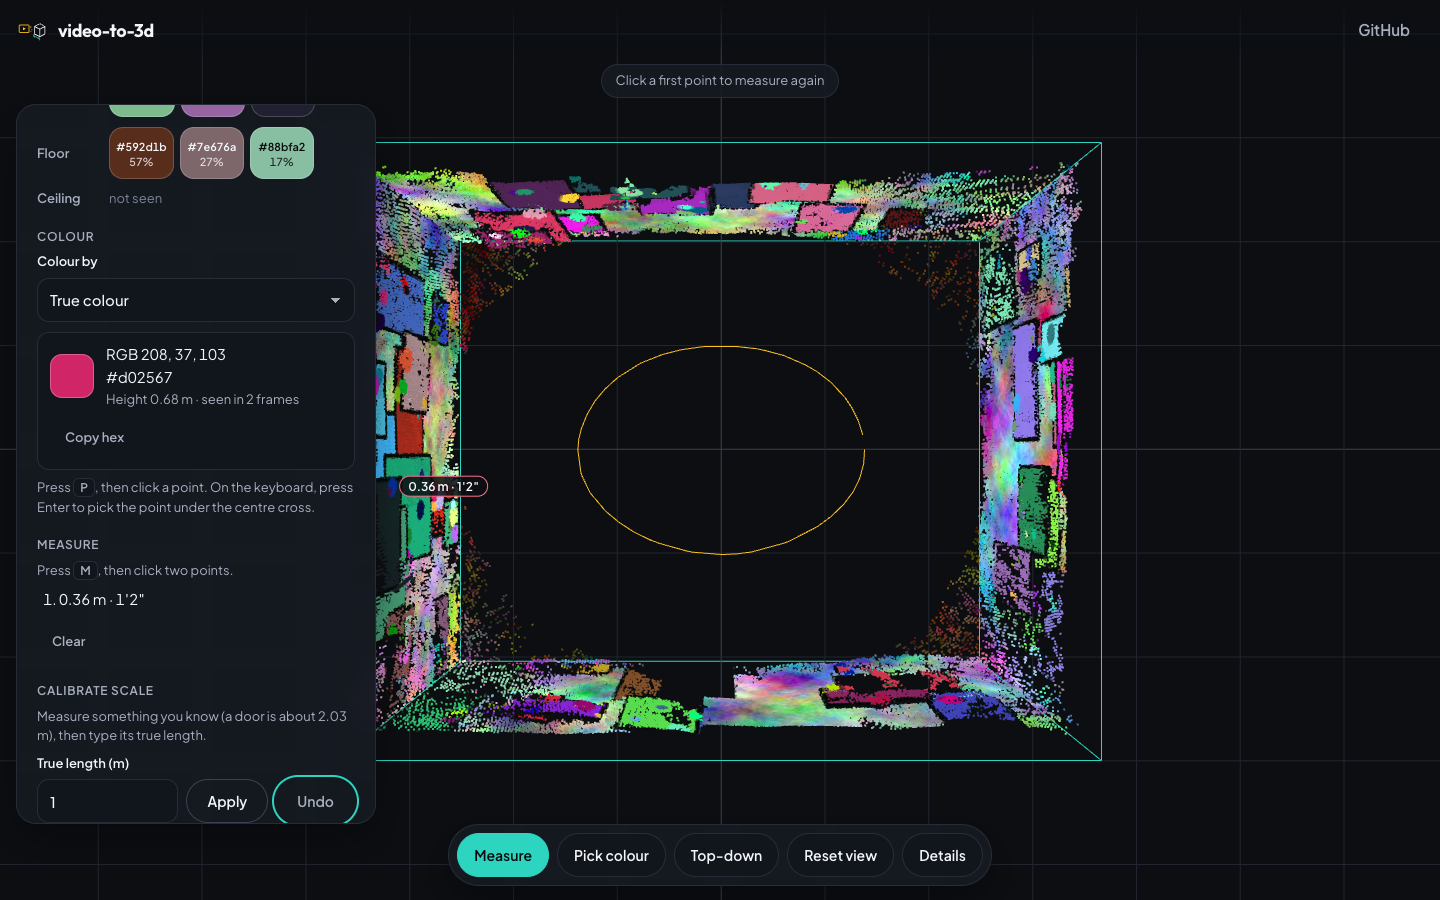
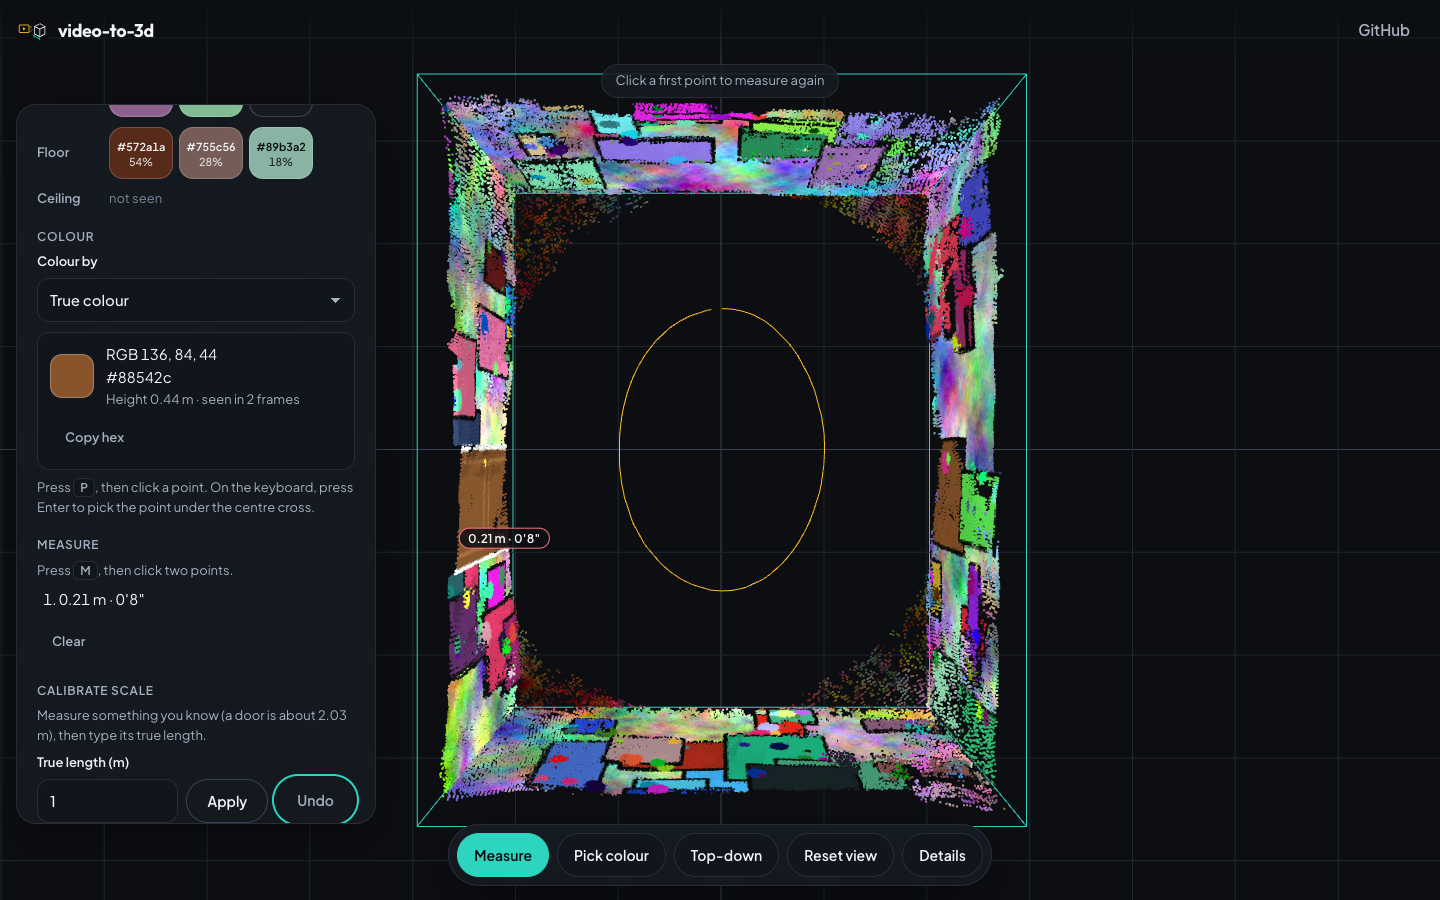
Viewer: ranges, confidence badge, guided demo with a bad-capture scan, calibration before/after readout

diff --git a/viewer/js/app.js b/viewer/js/app.js
@@ -4,7 +4,8 @@ import { SceneView } from "./scene.js";
 import { parsePly } from "./ply.js";
 import { RAMP, availableModes } from "./colors.js";
 import { detectMode, uploadVideo, getJob, cancelJob } from "./jobs.js";
-import { esc, fmtLen, mmss, textOn } from "./format.js";
+import { demoSteps, markDone } from "./demo.js";
+import { confidenceView, esc, fmtLen, fmtRange, mmss, textOn } from "./format.js";
 
 const $ = (id) => document.getElementById(id);
 const VIDEO = /\.(mp4|mov|m4v|webm|avi|mkv)$/i;
@@ -218,14 +219,26 @@ function openScene(data, m, plan) {
 
 function renderPanel() {
   const r = meta.room || {}, cal = view.cal;
-  $("dims").textContent = r.length_m ? `${(r.length_m * cal).toFixed(2)} × ${(r.width_m * cal).toFixed(2)} m` : "Room not fully captured";
+  renderConfidence();
+  renderDemo();
+  const ro = $("cal-readout");
+  ro.hidden = cal === 1 || !r.length_m;
+  if (!ro.hidden) ro.textContent = `Before: ${r.length_m.toFixed(2)} × ${r.width_m.toFixed(2)} m. After your calibration (×${cal.toFixed(3)}): ${(r.length_m * cal).toFixed(2)} × ${(r.width_m * cal).toFixed(2)} m.`;
+  const atLeast = r.missing_wall ? "at least " : "";
+  $("dims").textContent = r.length_m ? `${atLeast}${(r.length_m * cal).toFixed(2)} × ${(r.width_m * cal).toFixed(2)} m`
+    : r.at_least_m ? `at least ${(r.at_least_m[0] * cal).toFixed(1)} × ${(r.at_least_m[1] * cal).toFixed(1)} m` : "Room not fully captured";
   const rows = [
     ["Height", r.height_m ? fmtLen(r.height_m, cal) : "ceiling not seen"],
-    ["Area", r.area_m2 ? `${(r.area_m2 * cal * cal).toFixed(1)} m² · ${(r.area_ft2 * cal * cal).toFixed(0)} ft²` : "–"],
+    ["Area", r.area_m2 ? `${r.missing_wall ? "at least " : ""}${(r.area_m2 * cal * cal).toFixed(1)} m² · ${(r.area_ft2 * cal * cal).toFixed(0)} ft²` : "–"],
     ["Frames used", meta.frames_extracted ? `${meta.frames_registered} / ${meta.frames_extracted}` : "–"],
     ["Points", meta.points.toLocaleString()],
     ["Solve error", meta.sfm_reprojection_error_px != null ? `${meta.sfm_reprojection_error_px} px` : "–"],
   ];
+  const rg = meta.uncertainty?.ranges;
+  if (rg) {
+    rows.splice(0, 0, ["Length range", fmtRange(rg.length_m, cal, "m", 2)], ["Width range", fmtRange(rg.width_m, cal, "m", 2)],
+      ["Area range", fmtRange(rg.area_m2, cal * cal, "m²")]);
+  }
   $("stats").innerHTML = rows.map(([a, b]) => `<tr><td>${esc(a)}</td><td>${esc(b)}</td></tr>`).join("");
   // The scale guess is covered by the calibration tool, so drop that warning once calibrated.
   const warns = (Array.isArray(meta.warnings) ? meta.warnings : []).map(String).filter((w) => cal === 1 || !w.startsWith("Real-world scale"));
@@ -234,6 +247,44 @@ function renderPanel() {
   $("status").textContent = meta.seconds ? `Processed in ${Math.round(meta.seconds)} s` : "";
   renderPalette();
   renderLegend();
+}
+
+const demoDone = new Set();
+
+function renderDemo() {
+  const steps = demoSteps(meta), box = $("demo");
+  box.hidden = !steps;
+  if (!steps) return;
+  const bad = meta.demo.kind === "bad";
+  $("demo-note").textContent = bad
+    ? "A deliberately bad capture: the walk never reached the far wall. See how the program reacts."
+    : "Follow the steps. Each one says what you should see, and the true values are known.";
+  $("demo-steps").replaceChildren(...steps.map((st) => {
+    const li = document.createElement("li");
+    li.dataset.step = st.id;
+    li.className = demoDone.has(st.id) ? "done" : "";
+    const a = document.createElement("span"), b = document.createElement("small");
+    a.textContent = st.text; b.textContent = `Expect: ${st.expect}`;
+    li.append(a, b);
+    return li;
+  }));
+  const sw = $("demo-switch");
+  sw.textContent = bad ? "Back to the good scan" : "Try the bad capture";
+  sw.onclick = () => loadUrls(bad ? "sample" : "sample-bad");
+  if (bad) { stepDone("warn"); stepDone("range"); }
+}
+
+function stepDone(id) {
+  if (markDone(demoDone, id)) $("demo-steps")?.querySelector(`[data-step="${id}"]`)?.classList.add("done");
+}
+
+function renderConfidence() {
+  const c = confidenceView(meta.confidence), box = $("confidence");
+  box.hidden = !c;
+  if (!c) return;
+  box.dataset.level = c.label;
+  box.replaceChildren(...[["strong", c.text], ["span", c.summary], ...c.reasons.map((x) => ["small", x])]
+    .map(([tag, text]) => { const e = document.createElement(tag); e.textContent = text; return e; }));
 }
 
 function renderPalette() {
@@ -307,7 +358,7 @@ function wireScene() {
     tool: (t) => { $("tool-measure").setAttribute("aria-pressed", String(t === "measure")); $("tool-pick").setAttribute("aria-pressed", String(t === "pick")); },
     top: (on) => $("tool-top").setAttribute("aria-pressed", String(on)),
     legend: (l) => { lastLegend = l; if (meta) renderLegend(); },
-    measures: (list) => $("measures").replaceChildren(...list.map((t) => { const li = document.createElement("li"); li.textContent = t; return li; })),
+    measures: (list) => { if (list.length) stepDone("measure"); $("measures").replaceChildren(...list.map((t) => { const li = document.createElement("li"); li.textContent = t; return li; })) },
     picked: (p) => {
       $("pick-readout").hidden = false;
       $("pick-swatch").style.backgroundColor = p.hex;
@@ -315,12 +366,13 @@ function wireScene() {
       $("pick-hex").textContent = p.hex;
       $("pick-extra").textContent = `Height ${(p.height * view.cal).toFixed(2)} m` + (p.views != null ? ` · seen in ${p.views} frames` : "");
       $("pick-copy").dataset.hex = p.hex;
+      stepDone("pick");
       say(`Picked ${p.hex}`);
     },
   });
   $("tool-measure").addEventListener("click", () => view.setTool("measure"));
   $("tool-pick").addEventListener("click", () => view.setTool("pick"));
-  $("tool-top").addEventListener("click", () => view.toggleTop());
+  $("tool-top").addEventListener("click", () => { view.toggleTop(); stepDone("top"); });
   $("tool-reset").addEventListener("click", () => view.resetView());
   $("tool-panel").addEventListener("click", () => {
     const p = $("panel");
@@ -329,7 +381,7 @@ function wireScene() {
   });
   $("new-btn").addEventListener("click", () => show("start"));
   $("clear-btn").addEventListener("click", () => view.clearMeasures());
-  $("color-mode").addEventListener("change", (e) => view.setColorMode(e.target.value));
+  $("color-mode").addEventListener("change", (e) => { view.setColorMode(e.target.value); if (e.target.value === "height") stepDone("height"); });
   $("pick-copy").addEventListener("click", (e) => copyHex(e.currentTarget.dataset.hex));
   $("pt-size").addEventListener("input", (e) => view.setPointSize(+e.target.value));
   $("show-cams").addEventListener("change", (e) => view.showCameras(e.target.checked));
@@ -340,6 +392,7 @@ function wireScene() {
     if (!view.measuresList.length) return say("Measure something first (press M, then click two points).");
     if (!(t > 0)) return say("Type the true length in metres.");
     setCal(view.calibrateLast(t));
+    stepDone("calibrate");
   });
   $("uncal-btn").addEventListener("click", () => setCal(1));
 }

diff --git a/viewer/js/demo.js b/viewer/js/demo.js
@@ -1,0 +1,40 @@
+// Guided demo steps. Expected values come from scene.json "demo.truth" (the known size of the synthetic room),
+// never from numbers typed into the page, so they stay true if the sample is regenerated.
+
+import { fmtRange } from "./format.js";
+
+const one = (v) => (Number.isFinite(v) ? v.toFixed(1) : "–");
+const wallHexes = (m) => (m.palette?.walls || []).map((c) => c.hex).filter((h) => /^#[0-9a-f]{6}$/i.test(h)).join(", ");
+const num = (v) => (Number.isFinite(v) ? v : null);
+
+/** The checklist for a scene, or null when the scene is not a demo. */
+export function demoSteps(meta) {
+  const d = meta?.demo, t = d?.truth;
+  if (!d || !t) return null;
+  const door = t.door || {};
+  const r = meta.room || {}, rg = meta.uncertainty?.ranges;
+  if (d.kind === "bad") {
+    return [
+      { id: "warn", text: "Read the warning in the panel: it says a wall was never filmed.", expect: "Confidence is low and the room is not given as an exact size." },
+      { id: "range", text: "Look at the ranges. Open-ended means \"at least\".",
+        expect: `Width: ${rg ? fmtRange(rg.width_m, 1, "m", 2) : "–"} (the true width is ${num(t.width_m) ?? "–"} m, so the measured part is honest about being incomplete).` },
+      { id: "top", text: "Press T for the top-down view and see where the room stops.", expect: "The far wall is missing: the floor plan ends abruptly." },
+    ];
+  }
+  return [
+    { id: "size", text: "Check the size in the panel.",
+      expect: `The room is really ${one(t.length_m)} × ${one(t.width_m)} m. Shown: ${one(r.length_m)} × ${one(r.width_m)} m (the two sides can come out either way round), range ${rg ? fmtRange(rg.area_m2, 1, "m²") : "–"} (true area ${num(t.area_m2)} m²).` },
+    { id: "measure", text: "Press M, then click the bottom and the top of the brown door.", expect: `About ${door.height_m} m tall (the true door height).` },
+    { id: "calibrate", text: `Type ${door.height_m} under Calibrate and press Apply.`, expect: "The size readout shows before and after; the numbers move only a little because this scan was already scaled." },
+    { id: "top", text: "Press T for the top-down view.", expect: "A rectangle with the camera path inside it." },
+    { id: "pick", text: "Press P and click the wall.", expect: `A colour near one of the wall colours in the palette: ${wallHexes(meta) || "–"}. (The four walls of this room are tinted differently.)` },
+    { id: "height", text: "Set Colour by to Height above floor.", expect: "Floor blue, ceiling and top of the walls warm." },
+  ];
+}
+
+/** Marks a step done once; returns true when this call changed it. */
+export function markDone(state, id) {
+  if (state.has(id)) return false;
+  state.add(id);
+  return true;
+}

diff --git a/viewer/css/styles.css b/viewer/css/styles.css
@@ -253,3 +253,16 @@ input[type="checkbox"] { width: 20px; height: 20px; accent-color: var(--mint); m
 @media (prefers-reduced-motion: reduce) {
   *, *::before, *::after { animation: none !important; transition: none !important; }
 }
+
+.confidence { display: grid; gap: 4px; padding: 10px 12px; margin: 0 0 10px; border-radius: 10px; border: 1px solid var(--border); border-left-width: 4px; font-size: 13px; }
+.confidence[data-level="high"] { border-left-color: var(--green, #4ade80); }
+.confidence[data-level="medium"] { border-left-color: var(--amber); }
+.confidence[data-level="low"] { border-left-color: var(--red, #f87171); }
+.confidence small { color: var(--text-2); }
+
+.demo { padding: 12px; margin: 0 0 14px; border: 1px solid var(--border); border-radius: 12px; background: var(--surface-2, rgba(255,255,255,.03)); }
+.demo-steps { list-style: none; counter-reset: step; margin: 8px 0 10px; padding: 0; display: grid; gap: 10px; }
+.demo-steps li { counter-increment: step; padding-left: 30px; position: relative; font-size: 13px; display: grid; gap: 2px; }
+.demo-steps li::before { content: counter(step); position: absolute; left: 0; top: 0; width: 20px; height: 20px; border-radius: 50%; border: 1.5px solid var(--border); font: 600 11px/17px var(--font-ui); text-align: center; color: var(--text-2); }
+.demo-steps li.done::before { content: "\2713"; border-color: var(--green, #4ade80); color: var(--green, #4ade80); }
+.demo-steps small { color: var(--text-2); text-wrap: pretty; }

diff --git a/viewer/index.html b/viewer/index.html
@@ -63,7 +63,7 @@
       </details>
 
       <div class="actions">
-        <button id="sample-btn" class="btn btn-ghost" type="button">Open the sample room</button>
+        <button id="sample-btn" class="btn btn-ghost" type="button">Run the demo</button>
         <a class="btn btn-quiet" href="https://github.com/Srijjit-V/video-to-3d" rel="noopener">View the code</a>
       </div>
     </div>
@@ -116,9 +116,17 @@
       </div>
       <p id="status" class="muted small"></p>
 
+      <section id="demo" class="demo" aria-labelledby="h-demo" hidden>
+        <h3 id="h-demo">Guided demo</h3>
+        <p id="demo-note" class="muted small"></p>
+        <ol id="demo-steps" class="demo-steps"></ol>
+        <button id="demo-switch" class="btn btn-ghost small-btn" type="button"></button>
+      </section>
+
       <section aria-labelledby="h-room">
         <h3 id="h-room" class="sr-only">Size</h3>
         <p id="dims" class="big tabular">–</p>
+        <div id="confidence" class="confidence" hidden></div>
         <table id="stats" class="stats"></table>
         <div id="warnings" class="warnings"></div>
       </section>
@@ -161,6 +169,7 @@
           <button id="cal-btn" class="btn btn-ghost" type="button">Apply</button>
           <button id="uncal-btn" class="btn btn-quiet" type="button">Undo</button>
         </div>
+        <p id="cal-readout" class="muted small tabular" aria-live="polite" hidden></p>
       </section>
 
       <section aria-labelledby="h-display">

diff --git a/viewer/js/format.js b/viewer/js/format.js
@@ -28,3 +28,21 @@ export function textOn(hex) {
   const [r, g, b] = fromHex(hex) || [0, 0, 0];
   return 0.2126 * r + 0.7152 * g + 0.0722 * b > 140 ? "#07090d" : "#f4f6fa";
 }
+
+/** [lo, hi] -> "3.8 to 4.2 m"; [lo, null] -> "at least 2.7 m". `k` rescales (calibration, or k*k for areas). */
+export function fmtRange(r, k = 1, unit = "m", digits = 1) {
+  if (!Array.isArray(r) || !Number.isFinite(r[0])) return "–";
+  const f = (v) => String(+(v * k).toFixed(digits));
+  return r[1] == null ? `at least ${f(r[0])} ${unit}` : `${f(r[0])} to ${f(r[1])} ${unit}`;
+}
+
+/** scene.json "confidence" -> what the panel shows, or null if it is missing or malformed (it is untrusted data). */
+export function confidenceView(c) {
+  if (!c || !["high", "medium", "low"].includes(c.label) || !Number.isFinite(c.score)) return null;
+  return {
+    label: c.label,
+    text: `Confidence: ${c.label} (${Math.round(c.score)}/100)`,
+    summary: String(c.summary || ""),
+    reasons: (Array.isArray(c.reasons) ? c.reasons : []).map(String),
+  };
+}

diff --git a/tests/test_ui.py b/tests/test_ui.py
@@ -386,3 +386,42 @@ def test_local_mode_end_to_end_with_live_progress(desktop, local_url):
     assert [s["elapsed"] for s in snaps] == sorted(s["elapsed"] for s in snaps) and final["elapsed"] > 30
     assert re.fullmatch(r"\d\.\d\d × \d\.\d\d m", pg.inner_text("#dims"))
     assert desktop.errors == []
+
+
+def test_demo_shows_guided_steps_ranges_confidence_and_the_bad_capture(desktop, hosted_url):
+    pg = desktop.page
+    open_sample(desktop, hosted_url)
+    assert pg.is_visible("#demo")
+    assert pg.locator("#demo-steps li").count() == 6
+    steps = pg.inner_text("#demo-steps")
+    assert "5.0 × 4.0 m" in steps and "2.03" in steps  # expected values come from scene.json's truth
+    stats = pg.inner_text("#stats")
+    assert "Area range" in stats and " to " in stats
+    assert pg.inner_text("#confidence").startswith("Confidence: ")
+    assert pg.get_attribute("#confidence", "data-level") in ("high", "medium")
+
+    # measure two points, calibrate: the matching steps tick and a before/after readout appears
+    pg.keyboard.press("m")
+    a, b = points_on_screen(desktop, [420, 120, 1400, 760])
+    pg.mouse.click(a["x"], a["y"])
+    pg.mouse.click(b["x"], b["y"])
+    assert "done" in pg.get_attribute('#demo-steps [data-step="measure"]', "class")
+    pg.fill("#true-len", "2.03")
+    pg.click("#cal-btn")
+    assert "done" in pg.get_attribute('#demo-steps [data-step="calibrate"]', "class")
+    assert "Before:" in pg.inner_text("#cal-readout") and "After your calibration" in pg.inner_text("#cal-readout")
+    shot(pg, "desktop-demo")
+
+    # the deliberately bad capture: honest warnings, open-ended range, low confidence
+    pg.click("#demo-switch")
+    until(pg, "window.__vid3d.meta && window.__vid3d.meta.demo && window.__vid3d.meta.demo.kind === 'bad'", 20000)
+    pg.wait_for_timeout(400)
+    assert pg.inner_text("#dims").startswith("at least")
+    assert pg.get_attribute("#confidence", "data-level") == "low"
+    assert "never filmed" in pg.inner_text("#warnings")
+    assert "at least" in pg.inner_text("#stats")
+    assert pg.locator("#demo-steps li").count() == 3
+    shot(pg, "desktop-demo-bad")
+    pg.click("#demo-switch")
+    until(pg, "window.__vid3d.meta.demo.kind === 'good'", 20000)
+    assert desktop.errors == []
